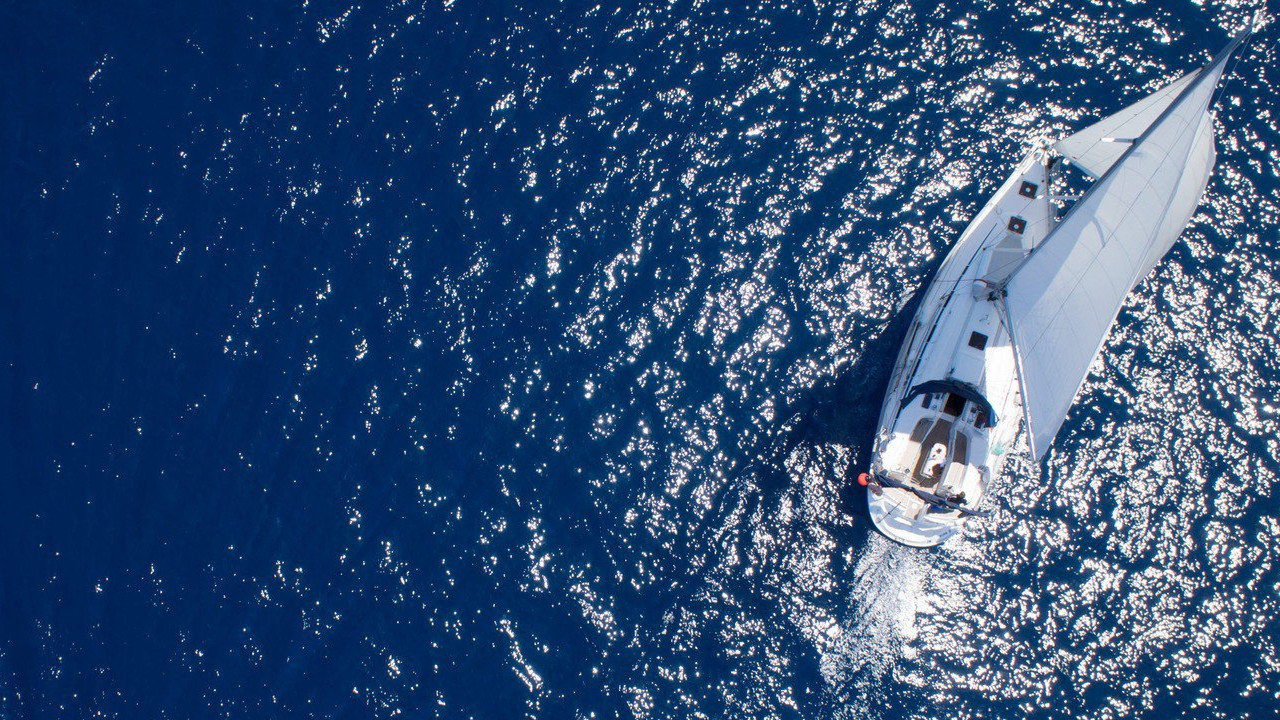
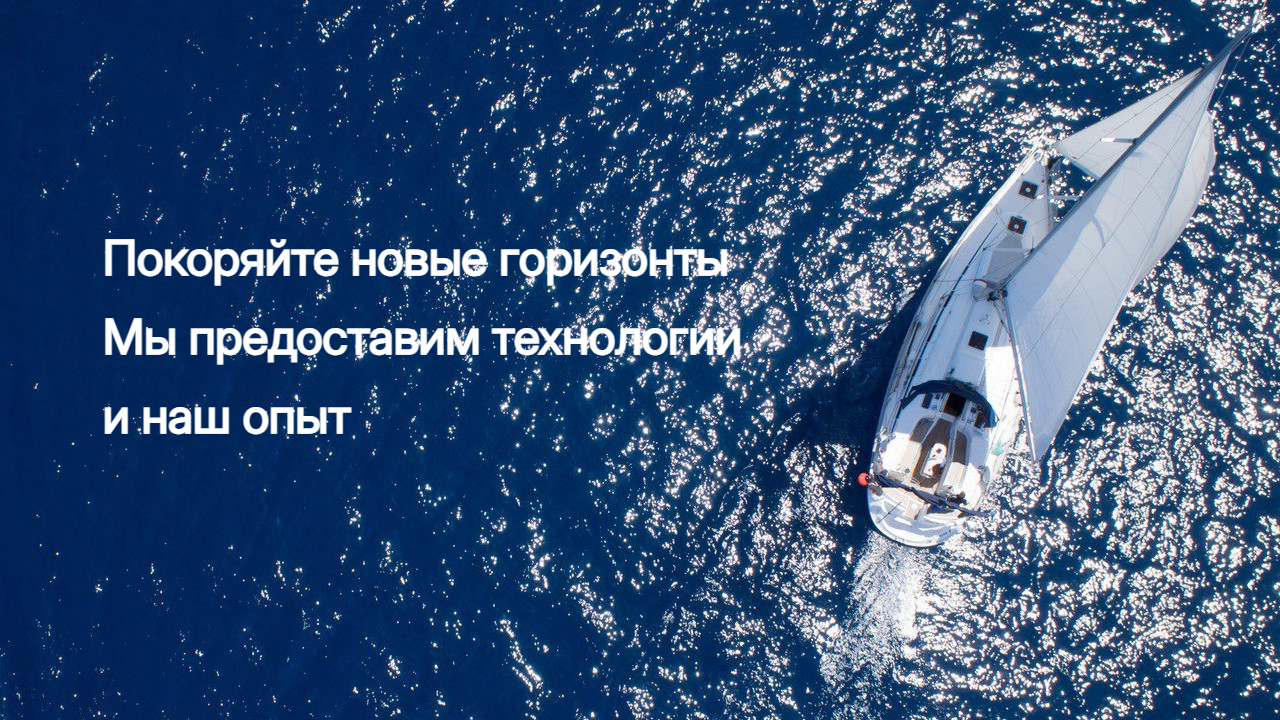
new intro video 3 (deleted text)

Changed region(s): [[0.0625, 0.3361, 0.5938, 0.3972], [0.0625, 0.4278, 0.5938, 0.5194], [0.0625, 0.55, 0.2812, 0.6111]]

diff --git a/public/js/main.js b/public/js/main.js
@@ -88,17 +88,6 @@ jQuery(function ($) {
             +"<div class=\"bringer-toggles-item--title stg-col-5 stg-m-col-6\"><span class=\"bringer-label\">Telegram<span class=\"bringer-accent\">.</span></span><h9 class='stg-m-bottom-gap'>"+ptb+"</h9></div>"
         );
 
-        if($("#main_video")){
-            $("#main_video").ready(function(){
-                    setTimeout(
-                        function () {
-                            $(".afterloadhide").hide();
-                            $("#main_video")[0].play();
-                        }, 5000
-                    );
-                }
-            );
-        }
 
 
         $('video[data-video-src]').each( function(index, element) {

diff --git a/resources/views/index.blade.php b/resources/views/index.blade.php
@@ -41,8 +41,7 @@
                 <div class="bringer-hero-media-wrap bringer-masked-bottom-right bringer-masked-block stg-bottom-gap-l" data-appear="zoom-out" data-unload="zoom-out">
                     <!-- Masked Media -->
                     <div class="bringer-masked-media bringer-masked-media bringer-parallax-media">
-                        <h3 class="bringer-page-title afterloadhide">Покоряйте новые горизонты<br/>Мы предоставим технологии<br>и наш опыт</h3>
-                        <video src="./video/intro.mp4" id="main_video" class="data-poster" poster="/img/home/home01-hero.jpg" loop muted></video>
+                        <video src="./video/intro.mp4" id="main_video" class="data-poster" poster="/img/home/home01-hero.jpg" loop muted autoplay></video>
                     </div>
                     <!-- Content -->
                     <div class="bringer-masked-content at-bottom-right">
